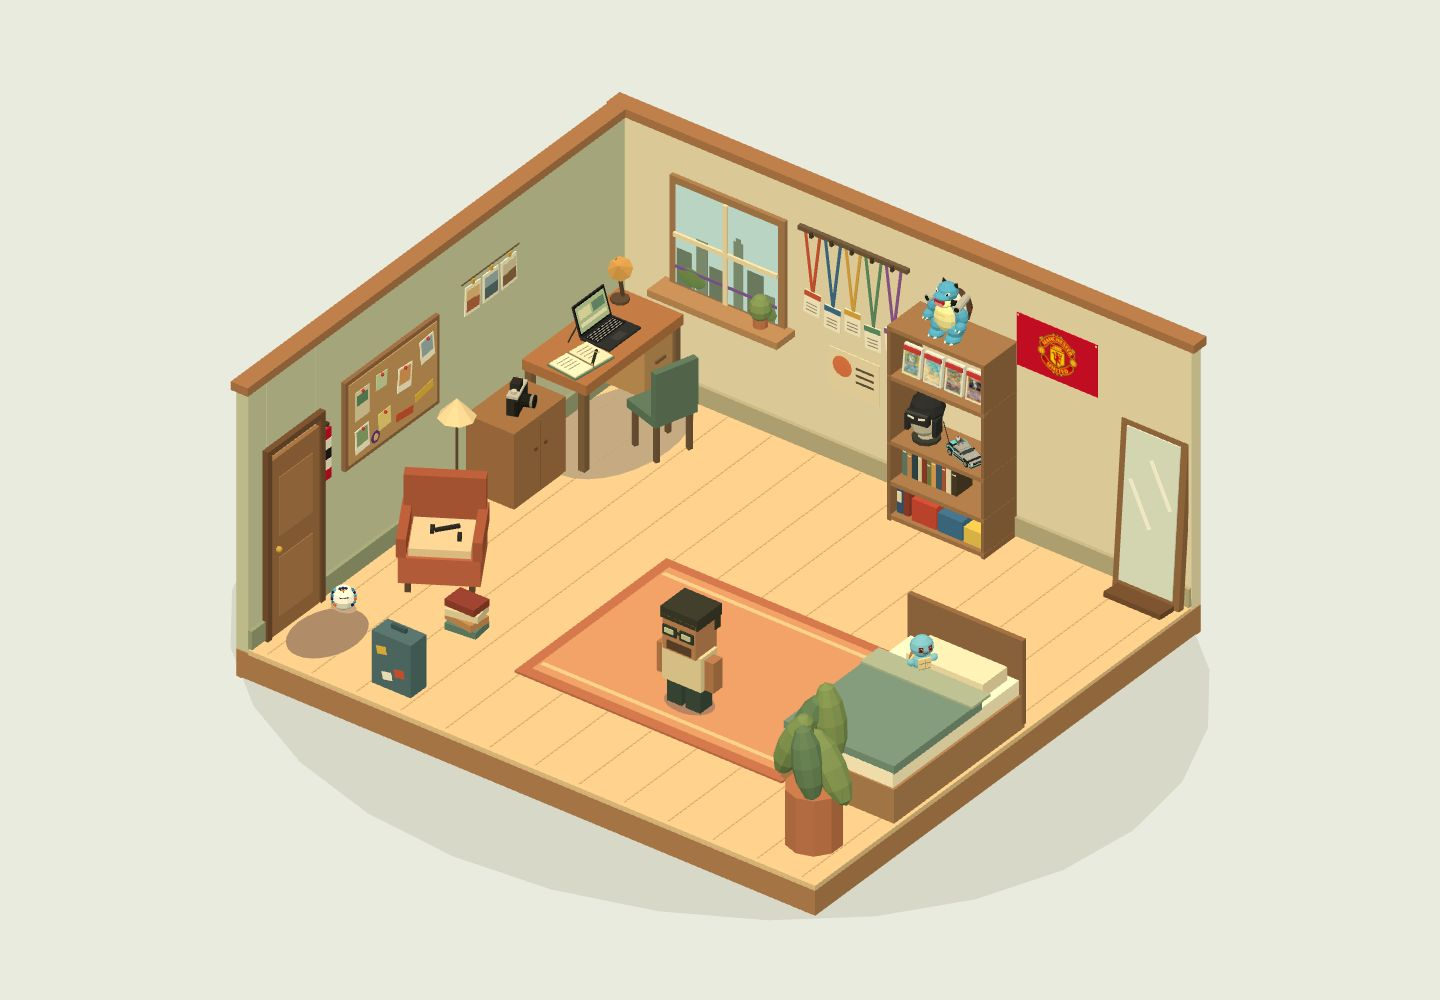
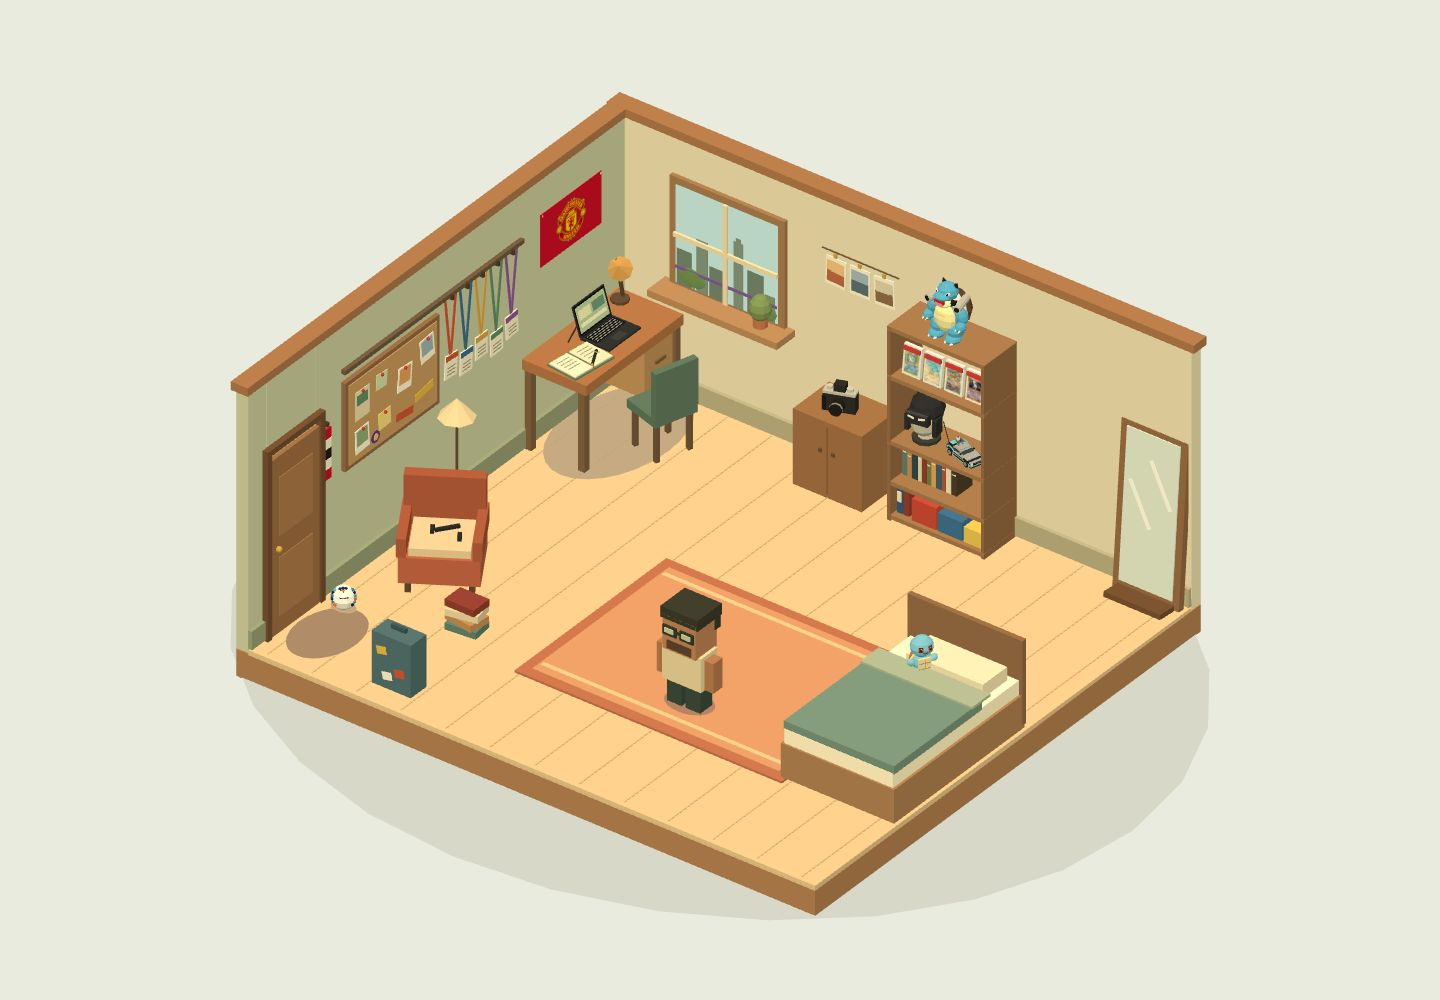
V3: remove the plant; cabinet beside the shelf, lanyards with the board
The camera cabinet and its prints move to the back wall left of the shelf,
replacing the talk poster. The lanyards hang beside the corkboard from one
shared rail, the United flag hangs above the desk, and the plant is gone.

diff --git a/src/lib/world/build.ts b/src/lib/world/build.ts
@@ -14,7 +14,18 @@ import {
 	type BufferGeometry
 } from 'three';
 import { mergeGeometries } from 'three/examples/jsm/utils/BufferGeometryUtils.js';
-import { BED, CABINET, DESK, FLAG, FOOTPRINTS, LAPTOP, MIRROR, SHELF, type Vec3 } from './layout';
+import {
+	BED,
+	CABINET,
+	DESK,
+	FLAG,
+	FOOTPRINTS,
+	LANYARDS,
+	LAPTOP,
+	MIRROR,
+	SHELF,
+	type Vec3
+} from './layout';
 
 type Shape = 'box' | 'cylinder' | 'sphere' | 'disc' | 'cone' | 'plane';
 
@@ -304,14 +315,19 @@ export function legoDelorean(b: Batch) {
 	b.add('sphere', black, [-0.239, 0.246, 0.05], [0.006, 0.006, 0.006]);
 }
 
-// The Manchester United flag pinned to the back wall: a red backing (all that
-// shows until the texture arrives), the picture with the crest, and two pins.
+// The Manchester United flag pinned to the wall (FLAG in layout.ts), in a frame
+// whose +z points out of the wall: a red backing (all that shows until the
+// texture arrives), the picture with the crest, and two pins.
 export function manUtdFlag(lit: Batch, picture: Batch) {
-	const { x, y, width, height } = FLAG;
-	lit.box('#c8102e', [x, y, -2.993], [width, height, 0.008]);
-	picture.picture([x, y, -2.988], width, height, [0, 0, 0], [0, 0, 1, 1]);
-	for (const dx of [-0.48, 0.48])
-		lit.box('#d9d4c7', [x + dx, y + 0.29, -2.984], [0.02, 0.02, 0.006]);
+	const { width, height } = FLAG;
+	const place: [Vec3, number] = [[FLAG.x, FLAG.y, FLAG.z], FLAG.angle];
+	lit.group(...place, () => {
+		lit.box('#c8102e', [0, 0, 0.007], [width, height, 0.008]);
+		for (const dx of [-0.48, 0.48]) lit.box('#d9d4c7', [dx, 0.29, 0.016], [0.02, 0.02, 0.006]);
+	});
+	picture.group(...place, () =>
+		picture.picture([0, 0, 0.012], width, height, [0, 0, 0], [0, 0, 1, 1])
+	);
 }
 
 // The camera's view direction and screen axes, for placing details on the side of
@@ -607,19 +623,6 @@ export function buildBedroom(lit: Batch) {
 	lit.box('#f0e3c7', [x + 0.1, 0.7, 0.07], [0.95, 0.16, 0.4]);
 	// Squirtle plush by the pillow, facing the room.
 	lit.group([x - 0.18, 0.62, 0.28], Math.PI / 3, () => squirtle(lit), 0.72);
-
-	// Front-right plant.
-	lit.cylinder('#b87554', [3.0, 0.33, 2.55], 0.3, 0.66);
-	for (let i = 0; i < 5; i++) {
-		const angle = (i * Math.PI * 2) / 5;
-		lit.add(
-			'sphere',
-			i % 2 ? '#658463' : '#7e965f',
-			[3.0 + Math.cos(angle) * 0.2, 0.95 + i * 0.1, 2.55 + Math.sin(angle) * 0.2],
-			[0.16, 0.43, 0.17],
-			[0, 0, Math.cos(angle) * 0.5]
-		);
-	}
 }
 
 // Character parts: body is static relative to the character; legs swing.
@@ -693,32 +696,34 @@ export function buildCityLights(b: Batch) {
 }
 
 export function buildLanyards(lit: Batch) {
-	lit.box('#6b5a48', [-0.65, 2.62, -2.97], [1.35, 0.05, 0.05]);
-	const straps = ['#c9573c', '#3d6f9e', '#d6a64a', '#5f8f73', '#8a5aa8'];
-	straps.forEach((strap, i) => {
-		const x = -1.15 + i * 0.25;
-		const drop = [0, 0.08, 0.03, 0.12, 0.05][i];
-		const badgeY = 1.78 - drop;
-		const length = 2.6 - badgeY - 0.1;
-		lit.box('#4a3d30', [x, 2.6, -2.94], [0.03, 0.06, 0.04]);
-		for (const side of [-1, 1])
-			lit.box(
-				strap,
-				[x + side * 0.045, badgeY + 0.1 + length / 2, -2.96],
-				[0.03, length, 0.01],
-				[0, 0, -side * 0.12]
-			);
-		lit.group([x, badgeY, -2.955], [0, 0, (i - 2) * 0.04], () => {
-			lit.box('#f6f1e4', [0, 0, 0], [0.2, 0.27, 0.012]);
-			lit.box(strap, [0, 0.1, 0.008], [0.2, 0.06, 0.004]);
-			for (const y of [-0.01, -0.05, -0.09])
-				lit.box('#9a9280', [0, y, 0.008], [0.13, 0.012, 0.004]);
-		});
-	});
-	// A talk poster at eye level.
-	lit.box('#e8dcc0', [-0.65, 1.1, -2.985], [0.62, 0.48, 0.01]);
-	lit.add('sphere', '#d9774f', [-0.8, 1.16, -2.978], [0.12, 0.12, 0.004]);
-	for (const y of [1.2, 1.12, 1.04]) lit.box('#5c5446', [-0.52, y, -2.978], [0.22, 0.025, 0.004]);
+	// One rail along the top of the lanyards and the corkboard.
+	lit.box('#6b5a48', [-3.47, 2.5, 0.2], [0.05, 0.05, 2.95]);
+	// Drawn as they hung on the back wall, centred on x -0.65, then moved.
+	lit.group([LANYARDS.x, LANYARDS.drop, LANYARDS.z], LANYARDS.angle, () =>
+		lit.group([0.65, 0, 3], 0, () => {
+			const straps = ['#c9573c', '#3d6f9e', '#d6a64a', '#5f8f73', '#8a5aa8'];
+			straps.forEach((strap, i) => {
+				const x = -1.15 + i * 0.25;
+				const drop = [0, 0.08, 0.03, 0.12, 0.05][i];
+				const badgeY = 1.78 - drop;
+				const length = 2.6 - badgeY - 0.1;
+				lit.box('#4a3d30', [x, 2.6, -2.94], [0.03, 0.06, 0.04]);
+				for (const side of [-1, 1])
+					lit.box(
+						strap,
+						[x + side * 0.045, badgeY + 0.1 + length / 2, -2.96],
+						[0.03, length, 0.01],
+						[0, 0, -side * 0.12]
+					);
+				lit.group([x, badgeY, -2.955], [0, 0, (i - 2) * 0.04], () => {
+					lit.box('#f6f1e4', [0, 0, 0], [0.2, 0.27, 0.012]);
+					lit.box(strap, [0, 0.1, 0.008], [0.2, 0.06, 0.004]);
+					for (const y of [-0.01, -0.05, -0.09])
+						lit.box('#9a9280', [0, y, 0.008], [0.13, 0.012, 0.004]);
+				});
+			});
+		})
+	);
 }
 
 export function buildMirror(lit: Batch) {

diff --git a/src/lib/world/layout.ts b/src/lib/world/layout.ts
@@ -90,10 +90,14 @@ export function onShelf(x: number, z: number): Point {
 	return { x: SHELF.x + c * x + s * z, z: SHELF.z - s * x + c * z };
 }
 
-// The camera cabinet stands against the left wall beside the desk, facing the
-// room, with a strand of prints above it; the mirror leans against the back wall
-// in the right corner. Both are drawn in their own frames (build.ts).
-export const CABINET = { x: -3.2, z: -0.8, angle: Math.PI / 2 };
+// The camera cabinet stands against the back wall left of the shelf, with a
+// strand of prints above it; the mirror leans against the back wall in the right
+// corner. Both are drawn in their own frames (build.ts).
+export const CABINET = { x: -0.55, z: -2.7, angle: 0 };
+
+// The lanyards hang on the left wall just behind the corkboard, from one rail that
+// runs along the top of both, so the two read as one board.
+export const LANYARDS = { x: -3.5, z: -0.575, angle: Math.PI / 2, drop: -0.12 };
 export const MIRROR = { x: 3.05, z: -2.88, angle: -Math.PI / 2 };
 
 // The bed runs along the right edge of the room, headboard at the back.
@@ -111,8 +115,7 @@ export const FOOTPRINTS = {
 	// The reading corner, under the corkboard where the bed was.
 	armchair: { x: -2.75, z: 1.0, halfX: 0.43, halfZ: 0.38, angle: 0.55 },
 	books: { x: -2.0, z: 1.6, halfX: 0.2, halfZ: 0.16, angle: 0 },
-	floorLamp: { x: -3.1, z: 0.3, halfX: 0.13, halfZ: 0.13, angle: 0 },
-	plant: edges(2.72, 3.28, 2.27, 2.83)
+	floorLamp: { x: -3.1, z: 0.3, halfX: 0.13, halfZ: 0.13, angle: 0 }
 } satisfies Record<string, Footprint>;
 
 export type StationId =
@@ -156,9 +159,9 @@ export const STATIONS: StationLayout[] = [
 	},
 	{
 		id: 'camera',
-		approach: { x: -2.5, z: -0.8 },
-		hit: { center: [-3.2, 1.25, -0.8], size: [0.85, 2.5, 1.05] },
-		focus: [-3.18, 1.2, -0.78],
+		approach: { x: -0.55, z: -1.95 },
+		hit: { center: [-0.53, 1.25, -2.72], size: [1.05, 2.5, 0.85] },
+		focus: [-0.52, 1.2, -2.7],
 		priority: 0
 	},
 	{
@@ -177,9 +180,9 @@ export const STATIONS: StationLayout[] = [
 	},
 	{
 		id: 'lanyards',
-		approach: { x: -0.65, z: -2.25 },
-		hit: { center: [-0.65, 1.8, -2.92], size: [1.4, 1.9, 0.45] },
-		focus: [-0.65, 1.8, -2.95],
+		approach: { x: -2.6, z: -0.6 },
+		hit: { center: [-3.42, 1.9, -0.575], size: [0.4, 1.3, 1.35] },
+		focus: [-3.4, 1.85, -0.575],
 		priority: 0
 	},
 	{
@@ -211,11 +214,13 @@ const displayRow = SHELF.boards[2] + 0.025;
 const cowlAt = onShelf(SHELF.cowl.x, SHELF.cowl.z);
 const deloreanAt = onShelf(SHELF.delorean.x, SHELF.delorean.z);
 
-// The Manchester United flag on the back wall, above the right of the desk. Its
-// picture (red field and crest) is a texture made by `npm run images`.
+// The Manchester United flag on the left wall above the desk, facing the room.
+// Its picture (red field and crest) is a texture made by `npm run images`.
 export const FLAG = {
-	x: 1.85,
-	y: 2.35,
+	x: -3.5,
+	y: 2.3,
+	z: -2.1,
+	angle: Math.PI / 2,
 	width: 1,
 	height: 0.62,
 	texture: '/room/flag.webp',
@@ -243,7 +248,7 @@ export const CURIOSITIES: CuriosityLayout[] = [
 		id: 'delorean',
 		hit: { center: [deloreanAt.x, displayRow + 0.1, deloreanAt.z], size: [0.48, 0.26, 0.4] }
 	},
-	{ id: 'flag', hit: { center: [FLAG.x, FLAG.y, -2.96], size: [1.04, 0.66, 0.1] } },
+	{ id: 'flag', hit: { center: [FLAG.x + 0.04, FLAG.y, FLAG.z], size: [0.1, 0.66, 1.04] } },
 	{ id: 'suitcase', hit: { center: [-1.9, 0.38, 2.85], size: [0.62, 0.8, 0.45] } },
 	{ id: 'football', hit: { center: [-3.2, 0.14, 2.03], size: [0.42, 0.42, 0.42] } }
 ];

diff --git a/WORKLOG.md b/WORKLOG.md
@@ -10,9 +10,9 @@
 
 ## Current state (verified 2026-10-01)
 
-- Branch: `v3-world`, based on `12cbe80`. One commit per phase: Phase 0 `f85cdaf`, Phase 1 `2e6ceee`, Phase 2 `298269e`, Phase 3 `e71d7cc`, Phase 4 `9b8afb4`, Phase 5 `4b772bd`, full-page World `1b0e26b`, focus/size/E `2db0f96` + `9797ce7`, configurable room content `b8ed4c3`, solid furniture and the open doorway `99f5277`, rename to `WORKLOG.md` `6e97548`, favourite cards, Squirtle plush, and new Blastoise `75dfc72`, cowl, DeLorean, flag, and shelf rows `39017a7`, desk/shelf swap and laptop `1418900`, then bed/armchair and mirror/cabinet swaps (this state). `main` is untouched. `origin/v3-world` was at `b8ed4c3` before this change.
+- Branch: `v3-world`, based on `12cbe80`. One commit per phase: Phase 0 `f85cdaf`, Phase 1 `2e6ceee`, Phase 2 `298269e`, Phase 3 `e71d7cc`, Phase 4 `9b8afb4`, Phase 5 `4b772bd`, full-page World `1b0e26b`, focus/size/E `2db0f96` + `9797ce7`, configurable room content `b8ed4c3`, solid furniture and the open doorway `99f5277`, rename to `WORKLOG.md` `6e97548`, favourite cards, Squirtle plush, and new Blastoise `75dfc72`, cowl, DeLorean, flag, and shelf rows `39017a7`, desk/shelf swap and laptop `1418900`, bed/armchair and mirror/cabinet swaps `f3fd237`, then the plant removed and the walls rearranged (this state). `main` is untouched. `origin/v3-world` was at `b8ed4c3` before this change.
 - Stack: SvelteKit 2.70, Svelte 5.57, TypeScript, Tailwind 4, **adapter-node 5.5.7** (replaced adapter-static), Three.js 0.186.1.
-- `/world` has all nine stations from the brief (desk & computer, notebook & fountain pen, Fujifilm X-T30 II, Pokémon shelf, corkboard, conference wall, mirror, window, door) and six curiosities (Squirtle plush, Batman cowl, LEGO DeLorean, Manchester United flag, suitcase, football), plus decoration (reading corner, tripod, prints, lamp, a Blastoise figure on top of the shelf, books). The shelf holds, top to bottom: Blastoise, the four favourite cards, the cowl and the DeLorean, books, binders and sealed boxes. `/collection` shows the cards too. The window follows Bengaluru time. `/now` exists. `/index` is SSR and never loads the scene.
+- `/world` has all nine stations from the brief (desk & computer, notebook & fountain pen, Fujifilm X-T30 II, Pokémon shelf, corkboard, conference wall, mirror, window, door) and six curiosities (Squirtle plush, Batman cowl, LEGO DeLorean, Manchester United flag, suitcase, football), plus decoration (reading corner, prints, lamps, a Blastoise figure on top of the shelf, books). Left wall, back to front: the desk with the laptop and the United flag above it, the lanyards and corkboard on one rail over the reading corner, the door. Back wall: the window, the camera cabinet with prints above, the shelf, the mirror in the corner. The bed runs along the right edge. The shelf holds, top to bottom: Blastoise, the four favourite cards, the cowl and the DeLorean, books, binders and sealed boxes. `/collection` shows the cards too. The window follows Bengaluru time. `/now` exists. `/index` is SSR and never loads the scene.
 - `/` renders World or Index on the server from the `mode` cookie (default World). `/world` and `/index` set it.
 - World is the whole page: full-viewport room, floating header (WORLD / INDEX), and an "In the room" menu button bottom right that opens the station list, curiosities, and settings.
 - Every page is V3 now: one header (WORLD / INDEX switch everywhere, section nav on deep pages), one footer, one container width. Deep pages: `/work`, `/projects`, `/speaking`, `/writing`, `/community`, `/photography`, `/collection`, `/about`, `/contact`, `/now`; `/resume` stays a PDF redirect. All V2 components are gone.
@@ -393,3 +393,10 @@
 - `src/lib/world/layout.ts`: new `CABINET` (left wall beside the desk, facing the room), `MIRROR` (back wall, right corner, facing the room), and `BED` (right edge of the room, headboard at the back). Footprints follow: cabinet turned with it, mirror `edges(2.64, 3.46, -3, -2.62)`, bed `x 2.1 to 3.5`; the reading corner moved under the corkboard where the bed was (armchair `(-2.75, 1.0)` turned 0.55 to face the room, floor lamp `(-3.1, 0.3)` clear of the corkboard, book stack `(-2.0, 1.6)` clear of the corkboard's approach and the walk to the door). Tripod footprint removed. Stations: camera approach `(-2.5, -0.8)` with its hit box and focus on the cabinet; mirror approach `(3.05, -2.2)`. The plush's hit box follows the bed.
 - `src/lib/world/build.ts`: `buildPhotography()` draws the old corner (cabinet, Fujifilm, strand of prints) as before and moves it as one piece onto the left wall, so the prints now hang above the cabinet there. `buildMirror()` uses `MIRROR` (leans back against the back wall). The bed and Squirtle use `BED.x`. The tripod is gone.
 - Verified in screenshots and by visiting the camera, mirror, corkboard, door, and notebook stations (each stops at its approach and opens). Regenerated `static/room-still.jpg`, `og/room.jpg`, `static/og.png`. Validation: `npm run check` 0/0, `npm test` 20/20, `npm run test:e2e` 24/24, `npm run lint` exit 0.
+
+### 2026-10-01 — Plant removed; camera cabinet, lanyards, and flag moved (user requests)
+
+- User asked to remove the plant, move the camera cabinet to the left of the shelf and remove the "certificate" there (the talk poster under the lanyards), combine the lanyards with the corkboard, and put the Manchester United flag above the desk.
+- `src/lib/world/layout.ts`: `CABINET` now `(-0.55, -2.7)` on the back wall, unturned; new `LANYARDS` (left wall, centred at z -0.575 just behind the corkboard, dropped 0.12 so its hooks meet the shared rail); `FLAG` gains `z` and `angle` and moves to the left wall above the desk `(-3.5, 2.3, -2.1)`, facing the room. Footprints: cabinet follows; `plant` removed. Stations: camera approach `(-0.55, -1.95)` with hit and focus on the cabinet; lanyards approach `(-2.6, -0.6)` with hit and focus on the wall beside the corkboard. The flag's hit box turns with it.
+- `src/lib/world/build.ts`: `buildLanyards()` draws one rail along the top of the lanyards and the corkboard (z -1.28 to 1.68), and the lanyards as before, moved as one piece onto the left wall; the talk poster and the lanyards' own rail are gone. `manUtdFlag()` draws in a frame whose +z points out of the wall, so it can hang on any wall. The plant is gone. The photography corner keeps its prints above the cabinet on the back wall.
+- Verified in screenshots and by visiting the camera, lanyards, corkboard, window, and desk stations. Regenerated `static/room-still.jpg`, `og/room.jpg`, `static/og.png`. Validation: `npm run check` 0/0, `npm test` 20/20, `npm run test:e2e` 24/24, `npm run lint` exit 0.
